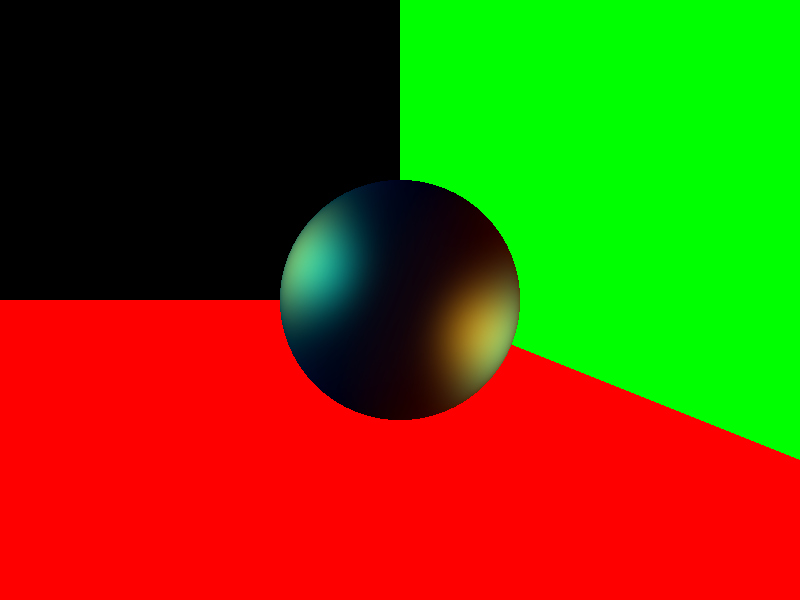
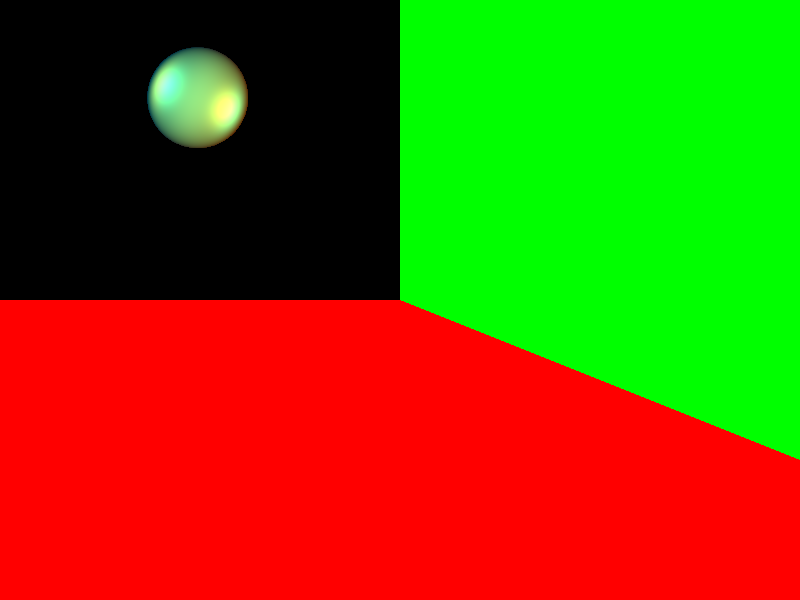
Kugel läst sich bewegen ! Wertebereich für verschiebung gering -> float zahlen benutzen zb 0,5   Matrizen implementierung bin ich dran

Changed region(s): [[0.3438, 0.3, 0.6562, 0.72], [0.1562, 0.06, 0.3125, 0.27]]

diff --git a/VCG_Raytracer/src/raytracer/Raytracer.java b/VCG_Raytracer/src/raytracer/Raytracer.java
@@ -40,30 +40,30 @@ public class Raytracer {                                                        
         mRenderWindow = renderWindow;
     }
 
-    public void renderScene(){                                                                                          //Methode renderScene (aufgerufen von Main)
+    public void renderScene() {                                                                                          //Methode renderScene (aufgerufen von Main)
         Log.print(this, "Start rendering");
 
-        RgbColor background = new RgbColor(0,0,0);                                                                      //setzen der Hintergrundfarbe
+        RgbColor background = new RgbColor(0, 0, 0);                                                                      //setzen der Hintergrundfarbe
 
         //Kamera erstellen
-		Camera camera = new Camera(mRenderWindow, new Vec3(0, 0, -5f), new Vec3(0, 0, 10),                              //Kamera erstellen (Position,LookAt,UserUp,
-                        new Vec3(0, 1, 0), (float) Math.PI-0.1f, 1);                                                    //                  ViewAngle,focalLength)
+        Camera camera = new Camera(mRenderWindow, new Vec3(0, 0, -20f), new Vec3(0, 0, 0),                              //Kamera erstellen (Position,LookAt,UserUp,
+                new Vec3(0, 1, 0), 2f, 1f);                                                                             //                  ViewAngle,focalLength)
 
         Ray ray = new Ray(camera.getCameraPosition());                                                                  //Ray erstellen (startPosition)
         ray.setDirection(camera.windowToViewplane(399, 299));                                                           //setdirection(endPoint)aufrufen
         ray.normalize();                                                                                                //normalze aufrufen
 
+        Sphere sphere = new Sphere(0.5f, new Vec3(-2f, -2f, 20), new Material                                                    //Kugel erstellen (radius, position Material
+                (new RgbColor(0.5f, 0.5f, 0.5f), new RgbColor(0.5f, 0.5f, 0.5f), new RgbColor(0.5f, 0.5f, 0.5f), 6));         //                 ka,ks,kd,n)
 
-        Sphere sphere = new Sphere(4f, new Vec3(0,0,0), new Material                                                    //Kugel erstellen (radius, position Material
-                (new RgbColor(0.5f,0.5f,0.5f), new RgbColor(0.5f,0.5f,0.5f), new RgbColor(0.5f,0.5f,0.5f), 6));         //                 ka,ks,kd,n)
-
-        Plane bottomPlane = new Plane(new Vec3(0f, -4f, 0f), new Vec3(0, 1, 0),new RgbColor(1, 0, 0));            //Plane Erstellen (Position,Normal,Farbe)
+        Plane bottomPlane = new Plane(new Vec3(0f, -4f, 0f), new Vec3(0, 1, 0), new RgbColor(1, 0, 0));                  //Plane Erstellen (Position,Normal,Farbe)
         Plane leftPlane = new Plane(new Vec3(-10f, 0f, 0f), new Vec3(1, 0, 0), new RgbColor(0.0f, 1, 0));
 
-        Light light0 = new Light(0, new Vec3(10,4,-3), new RgbColor(1f, 0.8f, 0.1f), new RgbColor(0.1f, 0.1f, 0.1f));   //Licht Erstellen (type,position,color,ambient)
-        Light light1 = new Light(0, new Vec3(-10,-4,-3), new RgbColor(0.1f, 1f, 0.8f), new RgbColor(0.1f, 0.1f, 0.1f));
+        Light light0 = new Light(0, new Vec3(10, 4, -3), new RgbColor(1f, 0.8f, 0.1f), new RgbColor(0.1f, 0.1f, 0.1f));   //Licht Erstellen (type,position,color,ambient)
+        Light light1 = new Light(0, new Vec3(-10, -4, -3), new RgbColor(0.1f, 1f, 0.8f), new RgbColor(0.1f, 0.1f, 0.1f));
 
-        lightList.add(0, light0); lightList.add(1, light1);                                                             //LichtListe
+        lightList.add(0, light0);
+        lightList.add(1, light1);                                                                                       //LichtListe
 
         for(int h = 0; h < mRenderWindow.getHeight(); h++){                                                             //Schleife für Höhe
             for(int w = 0; w < mRenderWindow.getWidth(); w++){                                                          //schleife für Breite
@@ -75,7 +75,6 @@ public class Raytracer {                                                        
 
                 if (sphere.intersect(ray)) {                                                                            //Wenn Kugel getroffen
                     Intersection intersec = new Intersection(ray, sphere);                                              //Intersection Objekt erstellen
-
                     mRenderWindow.setPixel(mBufferedImage, sphere.material.shade(sphere.getNormal(ray), ray.startPoint, lightList, intersec), new Vec2(w, h));
                 }
                 else if (bottomPlane.intersect(ray) || leftPlane.intersect(ray)) {                                      //wenn Plane getroffen
@@ -113,6 +112,10 @@ public class Raytracer {                                                        
 
         IO.saveImageToPng(mBufferedImage, "raytracing.png");                                                            //Speichere Bild
     }
+
+
+
+
 
     private RgbColor sendPrimaryRay(){
 

diff --git a/VCG_Raytracer/src/sceneobjects/Sphere.java b/VCG_Raytracer/src/sceneobjects/Sphere.java
@@ -27,6 +27,7 @@ public class Sphere extends Shape {                                             
 
     @Override
     public boolean intersect(Ray ray) {                                                                                 //Methode intersect
+        ray.startPoint = ray.startPoint.sub(this.position);
 
         double b = 2 * ray.startPoint.scalar(ray.direction);                                                            //Variablen für DeterminantenTest
 
@@ -37,6 +38,7 @@ public class Sphere extends Shape {                                             
         double t0 = (float) (0.5 * (-b - Math.sqrt(b*b - 4*c)));
 
         double t1 = (float) (0.5 * (-b + Math.sqrt(b*b - 4*c)));
+        ray.startPoint = ray.startPoint.add(this.position);
 
         if (d > 0) {                                                                                                    //Prüfen ob Sphere wichtig für die Szene
             if (t0 > 0 && t1 > 0) {

diff --git a/VCG_Raytracer/src/sceneobjects/Intersection.java b/VCG_Raytracer/src/sceneobjects/Intersection.java
@@ -24,7 +24,7 @@ public class Intersection {
         this.inRay = ray;
         this.intersectionPoint = ray.startPoint.add(ray.direction.multScalar(ray.t));
 
-        System.out.println(intersectionPoint);
+        //System.out.println(intersectionPoint);
     }
 
     public Vec3 getIntersec() {
